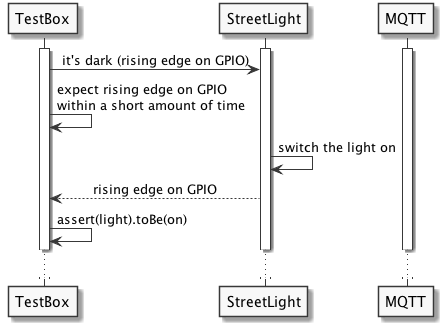
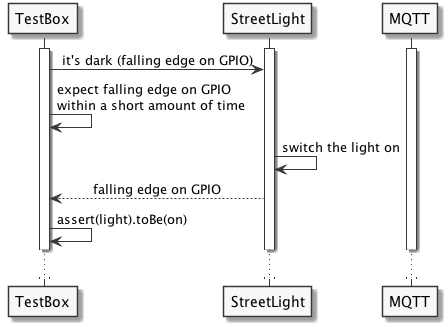
Automate uploading and test run on testbox via maven build / Add GpioGpio Test

diff --git a/testbox/java/src/main/java/testbox/streetlight/testcases/GpioGpio.java b/testbox/java/src/main/java/testbox/streetlight/testcases/GpioGpio.java
@@ -2,14 +2,9 @@ package testbox.streetlight.testcases;
 
 import java.util.concurrent.atomic.AtomicBoolean;
 
-import org.eclipse.paho.client.mqttv3.MqttClient;
-import org.eclipse.paho.client.mqttv3.MqttConnectOptions;
-import org.eclipse.paho.client.mqttv3.MqttMessage;
-import org.eclipse.paho.client.mqttv3.persist.MemoryPersistence;
 import org.junit.After;
 import org.junit.AfterClass;
 import org.junit.Assert;
-import org.junit.Before;
 import org.junit.BeforeClass;
 import org.junit.Test;
 
@@ -23,29 +18,17 @@ import com.pi4j.io.gpio.RaspiPin;
 import com.pi4j.io.gpio.event.GpioPinDigitalStateChangeEvent;
 import com.pi4j.io.gpio.event.GpioPinListenerDigital;
 
-import testbox.streetlight.Constants;
 import testbox.streetlight.WaitForCondition;
 
-public class MqttGpio {
+public class GpioGpio {
 
-	private static final String SUT_ID = "1";
-	private final GpioController gpio = GpioFactory.getInstance();
+	private static final GpioController gpio = GpioFactory.getInstance();
 
-	private static MqttClient client;
-
-	private GpioPinDigitalOutput outputLightSensor;
-	private GpioPinDigitalInput inputLightStatus;
+	private static GpioPinDigitalOutput outputLightSensor;
+	private static GpioPinDigitalInput inputLightStatus;
 
 	@BeforeClass
-	public static void setupMqtt() throws Exception {
-		client = new MqttClient(Constants.MQTT_HOST, Constants.CLIENT_ID, new MemoryPersistence());
-		MqttConnectOptions connOpts = new MqttConnectOptions();
-		connOpts.setCleanSession(true);
-		client.connect(connOpts);		
-	}
-	
-	@Before
-	public void setupGPIOs() throws Exception {
+	public static void setup() throws Exception {
 		inputLightStatus = gpio.provisionDigitalInputPin(RaspiPin.GPIO_04, PinPullResistance.PULL_DOWN);
 		outputLightSensor = gpio.provisionDigitalOutputPin(RaspiPin.GPIO_00, PinState.HIGH);
 		inputLightStatus.setShutdownOptions(true, PinState.LOW, PinPullResistance.OFF);
@@ -54,24 +37,24 @@ public class MqttGpio {
 
 	@AfterClass
 	public static void disconnect() throws Exception {
-		client.disconnect();
+		gpio.shutdown();
 	}
 
 	@After
 	public void reset() throws Exception {
 		inputLightStatus.removeAllListeners();
-		MqttMessage message = new MqttMessage(Constants.LIGHT_OFF_MESSAGE.getBytes());
-		client.publish(Constants.TOPIC_STREETLIGHT_COMMAND + "/" + SUT_ID, message);
-		gpio.shutdown();
+		outputLightSensor.setState(PinState.HIGH);		
 	}
 
 	@Test
-	public void testLightsOnWhenMessageSent() throws Exception {
+	public void testLightsOnWhenItsDark() throws Exception {
+		// simulate signal: "Its Dark!"
+		outputLightSensor.setState(PinState.LOW);
+		
 		final AtomicBoolean stateChanged = new AtomicBoolean(false);
 		final PinState[] state = new PinState[1];
 		state[0] = PinState.LOW;
-
-		// wait for GPIO
+		// wait for GPIO HIGH on input
 		inputLightStatus.addListener(new GpioPinListenerDigital() {
 
 			public void handleGpioPinDigitalStateChangeEvent(GpioPinDigitalStateChangeEvent event) {
@@ -80,9 +63,6 @@ public class MqttGpio {
 			}
 		});
 
-		// send message
-		MqttMessage message = new MqttMessage(Constants.LIGHT_ON_MESSAGE.getBytes());
-		client.publish(Constants.TOPIC_STREETLIGHT_COMMAND + "/" + SUT_ID, message);
 				
 		new WaitForCondition() {
 

diff --git a/testbox/java/src/main/java/testbox/TestRunner.java b/testbox/java/src/main/java/testbox/TestRunner.java
@@ -6,11 +6,17 @@ import org.junit.runner.Result;
 import org.junit.runner.notification.Failure;
 import org.junit.runner.notification.RunListener;
 
+import testbox.streetlight.testcases.GpioGpio;
 import testbox.streetlight.testcases.MqttGpio;
 import testbox.streetlight.testcases.MqttMqtt;
 
 public class TestRunner {
 
+	
+	private static final Class<?>[] TESTCLASSES = {
+		GpioGpio.class, MqttGpio.class, MqttMqtt.class
+	};
+	
 	public static void main(String[] args) {
 
 		JUnitCore junitCore = new JUnitCore();
@@ -36,7 +42,7 @@ public class TestRunner {
 				System.out.println(" [IGNORED]");
 			}
 		});
-		Result result = junitCore.run(MqttGpio.class, MqttMqtt.class);
+		Result result = junitCore.run(TESTCLASSES);
 
 		System.out.println("----------------------------------");
 		if (result.wasSuccessful()) {

diff --git a/testbox/java/src/main/java/testbox/streetlight/testcases/MqttMqtt.java b/testbox/java/src/main/java/testbox/streetlight/testcases/MqttMqtt.java
@@ -41,7 +41,7 @@ public class MqttMqtt {
 	}
 
 	@Test
-	public void testLightsOn() throws Exception {
+	public void testLightsOnResponseWhenMessageSent() throws Exception {
 
 		final Status resultingStatus = new Status(Status.STATUS_OFF, Constants.CMD_ON_ID);
 		final MqttLightStatusCallback callback = new MqttLightStatusCallback(resultingStatus);
@@ -63,10 +63,10 @@ public class MqttMqtt {
 	}
 	
 	@Test
-	public void testLightsOff() throws Exception {
+	public void testLightsOffResponseWhenMessageSent() throws Exception {
 
 		// first switch the lights on
-		testLightsOn();
+		testLightsOnResponseWhenMessageSent();
 		
 		final Status resultingStatus = new Status(Status.STATUS_ON, Constants.CMD_OFF_ID);
 		final MqttLightStatusCallback callback = new MqttLightStatusCallback(resultingStatus);
